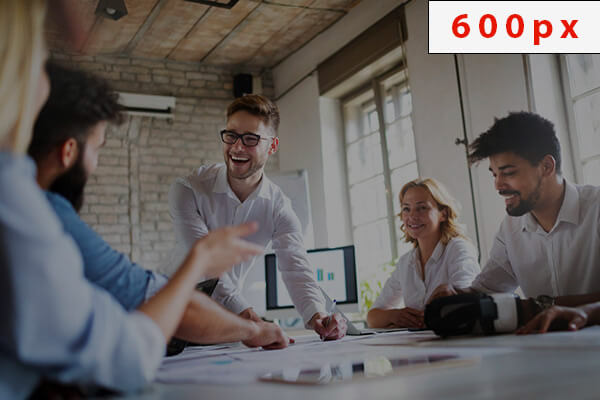
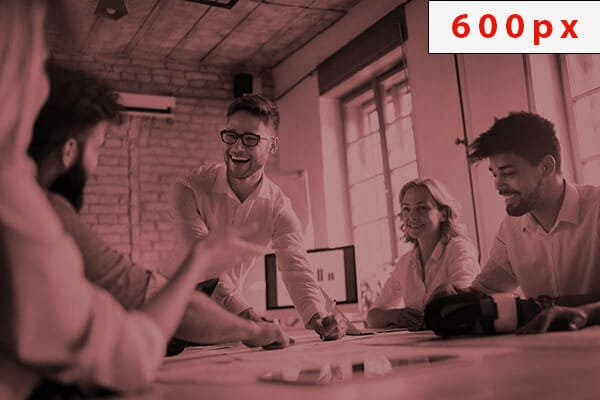
Lecon 9 - Images

diff --git a/integration1/lecon09-en-classe.html b/integration1/lecon09-en-classe.html
@@ -258,73 +258,37 @@
               <img class="bordure" src="images/cours08/cours08_tp3_arbo_a23a.jpg" alt="Arborescence de fichiers pour le tp3.">
             </figure>
           <h4>Échéancier</h4>
-                    <p>Remettez l'archive zippée <strong>sur LÉA</strong>, à la date correspondante à votre groupe: </p>
+          <p>Remettez l'archive <strong>sur LÉA au plus tard le mercredi 4&nbsp;novembre à&nbsp;8h</strong>. <br>(Pénalité de 15% pour une remise en retard.)</p>
+                    <!-- <p>Remettez l'archive zippée <strong>sur LÉA</strong>, à la date correspondante à votre groupe: </p>
                     <ul>
                         <li>groupe 1 : <strong>au plus tard mercredi 29 octobre à 8h</strong></li>
                         <li>groupe 2 : <strong>au plus tard mercredi 22 octobre à 8h</strong></li>
-                    </ul>
+                    </ul> -->
                     <h4>Critères d'évaluation</h4>
-                    <p><em>Ce travail comptant pour 10% de la note de session.</em></p>
-                    <table class="table table-striped">
-                    <tbody>
-                      <tr>
-                        <th scope="row">Dossier de remise</th>
-                        <td>5%</td>
-                      </tr>
-                      <tr>
-                        <th scope="row" colspan="2">Code HTML</th>
-                      </tr>
-                      <tr>
-                        <td scope="row">Structure de base et syntaxe</td>
-                        <td>5%</td>
-                      </tr>
-                      <tr>
-                        <td scope="row">Éléments obligatoires dans &lt;head&gt;</td>
-                        <td>5%</td>
-                      </tr>
-                      
-                      <tr>
-                        <td scope="row">Schématisation, conteneurs et classes</td>
-                        <td>10%</td>
-                      </tr>
-                      <tr>
-                        <th scope="row" colspan="2">CSS</th>
-                      </tr>
-                      <tr>
-                        <td scope="row">Ordre et éléments exigés (charset, charte graphique, commentaires,&nbsp;etc.)</td>
-                        <td>5%</td>
-                      </tr>
-                      <tr>
-                        <td scope="row">Polices liées</td>
-                        <td>10%</td>
-                      </tr>
-                      <tr>
-                        <td scope="row">Navigation</td>
-                        <td>10%</td>
-                      </tr>
-                      <tr>
-                        <td scope="row">Bloc titre et vidéo</td>
-                        <td>10%</td>
-                      </tr>
-                      <tr>
-                        <td scope="row">Section</td>
-                        <td>10%</td>
-                      </tr>
-                      <tr>
-                        <td scope="row">Contenu des sections</td>
-                        <td>5%</td>
-                      </tr>
-                      <tr>
-                        <td scope="row">Le pied de page </td>
-                        <td>10%</td>
-                      </tr>
-                      <tr>
-                        <td scope="row">Réactivité</td>
-                        <td>15%</td>
-                      </tr>
-                    </tbody>
-                  </table>
-<p class="text-right"><strong>TOTAL: 100%</strong></p>
+<p><em>Ce travail compte pour 10 % de la note de session.</em></p>
+<div class="card">
+                        <div class="card-body">
+<p><strong>Dossier de remise (5%)</strong></p>
+<p><strong>Structure HTML (20%)</strong></p>
+<ul class="no-margin small">
+        <li>Structure de base et syntaxe</li>
+        <li>Éléments obligatoires dans &lt;head&gt;</li>
+        <li class="no-margin">Schématisation, conteneurs et classes</li>
+      </ul>
+<p><strong>Structure CSS et polices (50%)</strong></p>
+<ul class="no-margin small">
+        <li>Ordre et éléments exigés (charset, charte graphique, commentaires,&nbsp;etc.)</li>
+        <li>Polices liées</li>
+        <li>Navigation</li>
+        <li>Bloc titre et vidéo</li>
+        <li>Section</li>
+        <li>Contenu des sections</li>
+        <li>Le pied de page</li>
+        <li class="no-margin">Réactivité</li>
+      </ul>
+<p class="text-right"><strong>TOTAL : 100 %</strong></p>
+</div>
+</div>
                     
           <h4>Travail à faire</h4>
           <p><a href="https://cegepsaintefoy.sharepoint.com/:v:/r/sites/INTGRATION1-A2025-gr.1/Documents%20partages/General/TP3-exemple.mp4?csf=1&web=1&e=5hZXYR&nav=eyJyZWZlcnJhbEluZm8iOnsicmVmZXJyYWxBcHAiOiJTdHJlYW1XZWJBcHAiLCJyZWZlcnJhbFZpZXciOiJTaGFyZURpYWxvZy1MaW5rIiwicmVmZXJyYWxBcHBQbGF0Zm9ybSI6IldlYiIsInJlZmVycmFsTW9kZSI6InZpZXcifX0%3D" class="btn btn-primary" role="button" target="_blank"><i class="bi bi-play-fill"></i> Visionnez un exemple de résultat final attendu</a></p>
